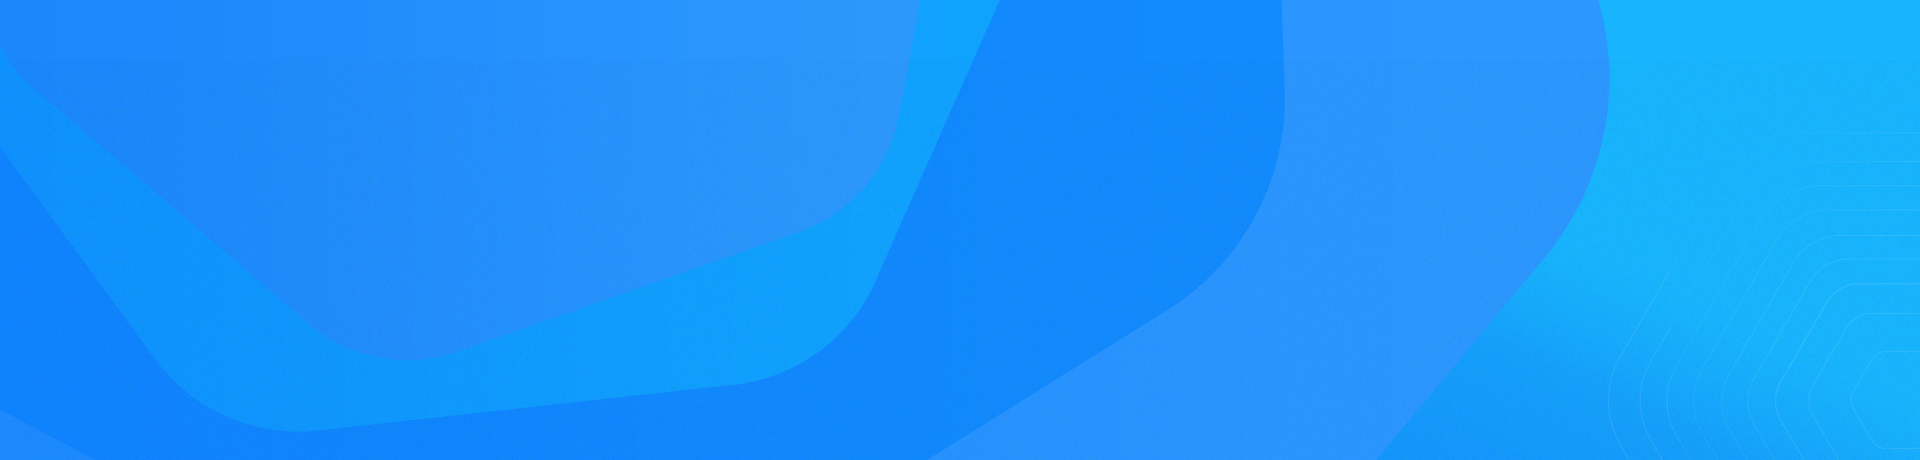
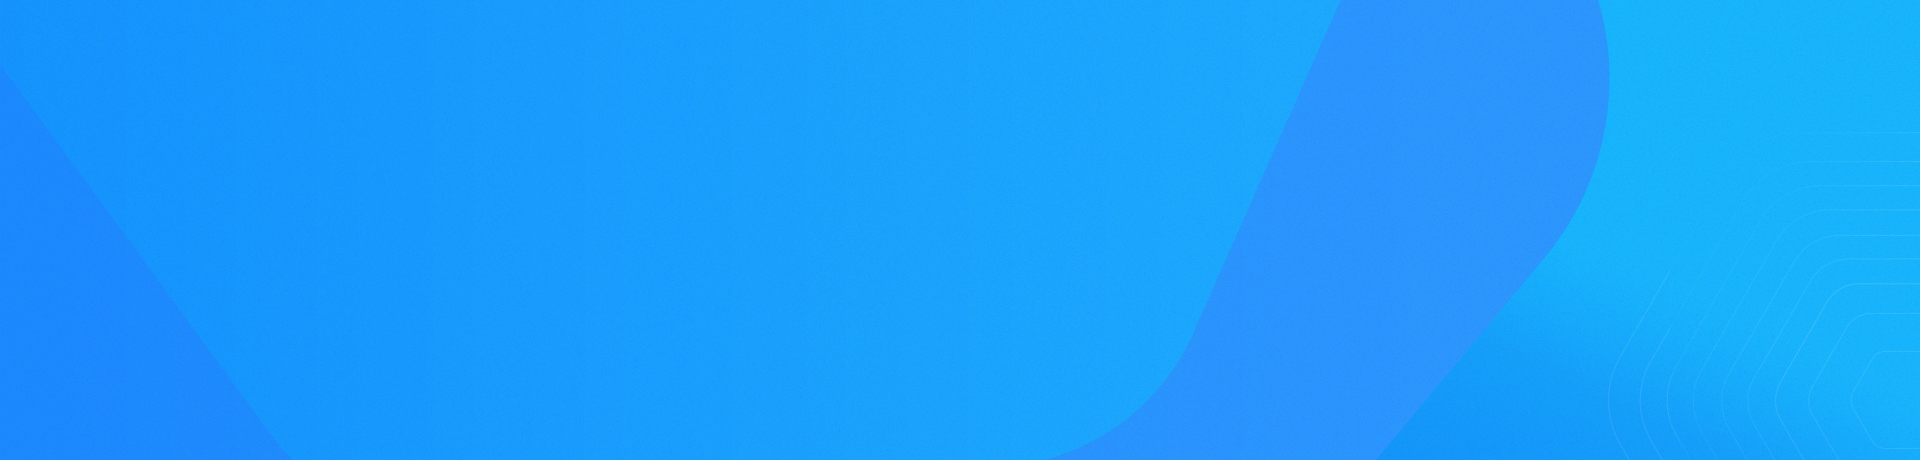
修改顶部导航栏颜色样式，修复部分bug

Changed region(s): [[0.2188, 0.0, 0.6875, 1.0]]

diff --git a/src/components/base-header/header.vue b/src/components/base-header/header.vue
@@ -1,7 +1,7 @@
 <template>
-  <div class="header-wrap">
+  <div class="header-wrap" :class="{'detail':showSearch}">
     <div class="header-inner" flex="main:justify cross:center">
-      <img src="../../assets/images/logo.png" height="90" width="320" alt="logo" class="link" @click="home"/>
+      <img src="../../assets/images/logo-white.png" height="90" width="320" alt="logo"/>
       <div class="info" flex="cross:center" v-if="userRoles">
         <div class="links">
           <div class="inner">
@@ -91,8 +91,11 @@
 
 <style scoped lang="stylus">
   .header-wrap {
-    background: #fff;
-    box-shadow: 0 0 8px #d1d1d1;
+    background: rgba(16, 103, 222, 0.5);
+    box-shadow: 0 0 8px rgba(143, 143, 143, 0.51);
+    &.detail {
+      background: rgba(16, 103, 222, 0.5) url("../../assets/images/header-bg.png") no-repeat center top;
+    }
     .header-inner {
       position: relative;
       width: 1300px;
@@ -105,7 +108,7 @@
             width: 110px;
             text-align: center;
             a {
-              color: #646c77;
+              color: #fff;
             }
           }
         }
@@ -113,6 +116,7 @@
       .user {
         width: auto;
         padding: 0 10px;
+        color: #fff;
       }
       .search-btn {
         position: relative;
@@ -137,7 +141,8 @@
         right: 0;
         width: 880px;
         height: 100%;
-        background: #fff;
+        background-color: #0f80e9; /* 不支持线性的时候显示 */
+        background-image: linear-gradient(to right, #0f80e9, #0e89ea);
         &.move-enter-active, &.move-leave-active {
           transition: .35s;
         }

diff --git a/src/components/base-search/search.vue b/src/components/base-search/search.vue
@@ -100,7 +100,7 @@
         return this.current.reason.length === 0 ? '选择查询原因' : this.reasonMap[this.current.reason]
       },
       placeholderLabel () {
-        return this.current.type === '1' ? '请输入企业名称、统一社会信用代码、工商注册号、组织机构代码等' : '请输入自然人名称'
+        return this.current.type === '1' ? '请输入企业名称、统一社会信用代码、工商注册号、组织机构代码' : '请输入自然人名称'
       }
     },
     methods: {
@@ -146,6 +146,7 @@
         font-size: 15px;
         cursor: pointer;
         transition: .3s;
+        color: #fff;
         &.active {
           background: #fff;
           color: #0398ec;
@@ -165,7 +166,7 @@
             line-height: 1.5;
             padding: 0 15px;
             font-size: 14px;
-            border: 1px solid #cccccc;
+            border: 1px solid #fff;
             border-right: none;
             color: #515a6e;
             background-color: #fff;
@@ -202,7 +203,7 @@
         height: 50px;
         width: 140px;
         line-height: 49px;
-        border: 1px solid #cccccc;
+        border: 1px solid #fff;
         color: #999999;
         background: #fff;
         text-align: center;
@@ -250,6 +251,7 @@
     .tip {
       padding: 10px 25px;
       font-size: 12px;
+      color: #fff;
     }
   }
 </style>

diff --git a/src/views/login/login.vue b/src/views/login/login.vue
@@ -6,8 +6,10 @@
         <li v-for="n in 10" :key="n"></li>
       </ul>
     </div>
-    <base-header></base-header>
     <div class="main-wrap">
+      <div class="header-inner">
+        <img src="../../assets/images/logo-white.png" height="90" width="320" alt="logo" class="link"/>
+      </div>
       <!--登录框-->
       <div class="content" flex="main:right cross:center">
         <div class="form">
@@ -167,12 +169,10 @@
     }
     .main-wrap {
       flex: 1;
-      /*min-height: 600px;*/
       background: url("images/login-bg.png") no-repeat center center;
     }
     // 登陆页面控件的容器
     .content {
-      height: 100%;
       padding: 40px 200px;
       // 登录表单
       .form {
@@ -315,5 +315,9 @@
         }
       }
     }
+  }
+  .header-inner {
+    width: 1300px;
+    margin: 0 auto;
   }
 </style>

diff --git a/src/views/index/index.vue b/src/views/index/index.vue
@@ -137,7 +137,7 @@
 
 <style scoped lang="stylus">
   .main-wrap {
-    background: url("../../assets/images/bg0.png") no-repeat 0 0;
+    background: url("../../assets/images/banner-bg0.png") no-repeat 0 0;
     &.mini-wrap {
       background: url("../../assets/images/banner-bg.png") no-repeat 0 -370px;
       animation: bg .4s ease-in-out forwards;
@@ -147,10 +147,10 @@
       margin: 0 auto;
       transition: .3s;
       h2 {
-        color: #333333;
+        color: #fff;
         text-align: center;
         font-weight: 400;
-        font-size: 24px;
+        font-size: 34px;
         letter-spacing: 4px;
       }
     }

diff --git a/src/components/top-search/top-search.vue b/src/components/top-search/top-search.vue
@@ -93,11 +93,11 @@
         padding: 0 12px;
         margin: 0 5px;
         font-size: 12px;
-        color: #8294b1;
+        color: #b8d7ff;
         cursor: pointer;
         transition: .3s;
         &.active {
-          color: #646c77;
+          color: #fff;
           font-weight: bold;
         }
       }
@@ -115,7 +115,7 @@
             line-height: 1.5;
             padding: 0 15px;
             font-size: 12px;
-            border: 1px solid #1f7af6;
+            border: 1px solid #f5f9ff;
             border-bottom-left-radius: 4px;
             border-top-left-radius: 4px;
             color: #515a6e;
